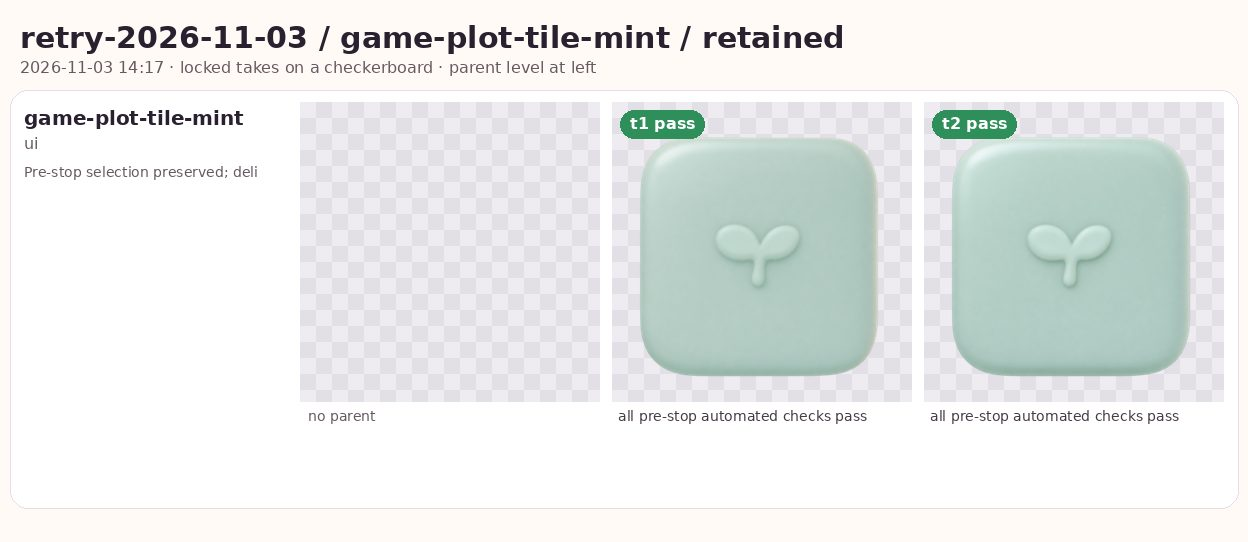
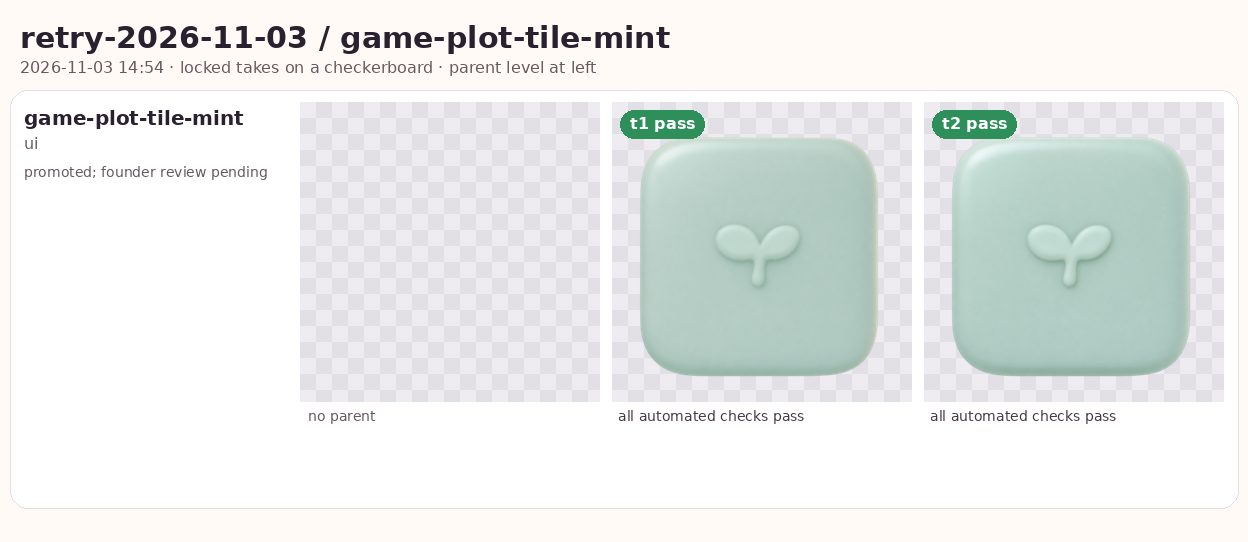
design(art): publish game-plot-tile-mint
Generated-With: OpenAI Codex

diff --git a/design/art/ui/ui-game-plot-tile-mint/provenance.md b/design/art/ui/ui-game-plot-tile-mint/provenance.md
@@ -1,0 +1,50 @@
+# ui__game-plot-tile-mint
+
+- **Approved:** 2026-11-03T14:54:17+00:00 from batch `retry-2026-11-03`, job `game-plot-tile-mint`, take t2
+  of 2 considered.
+- **Generating account:** Founder's uncle's ChatGPT plan, used by the founder with permission
+  (chatgpt-plan).
+- **Tool:** codex-cloud;
+  generated 2026-11-03T13:49:40+00:00.
+- **Post-processing (human-authored, documented per art bible section 13):**
+  canvas fit, alignment to the parent level {"scale": 0.9941, "cx": 507.0, "cy": 956.0, "dx": -5, "dy": -2}, style lock preset `lock-light` (style_lock.json v2).
+- **Files:** `raw.webp` is the take as generated (webp q95), kept so the look can be re-locked; `ui-game-plot-tile-mint.png` is the locked master the app and later edits use.
+- **Review note:** auto-picked by QA; founder review pending. Resume from the saved pre-stop choice t2, with zero image generation. Re-posted all two original PNGs under main9ede62e QA: both pass; t2 remains lowest lock load0.5998 versus0.6082 and its locked RGBA is unchanged from the retained candidate. Matte cool blue-mint glaze remains distinct from sage; tile silhouette, highlight, lip and sprout are preserved. Exactly two original image requests; source files recovered after the historical ARG_MAX callback failure and assigned stable completion-time numbering, not claimed original request ordinal. This fresh preparation adopts no old partial master or journal.
+
+## References
+
+- `design/art/ui/ui-game-plot-tile-sage/ui-game-plot-tile-sage.png`: The image to edit (the approved previous level). Edit it; do not redraw it.
+
+## Prompt (fingerprint f470d536dd3b0cd8)
+
+```text
+REFERENCES (attached, in this order):
+1. The image to edit (the approved previous level). Edit it; do not redraw it.
+
+Change only the glaze color of the tile and its sprout to a cool
+mint, a little bluer than before, in the same finish and the same
+lightness. The shape, highlight, lip and sprout stay.
+
+KEEP: everything not named above stays exactly the same as in the
+attached image: every existing part, its shape, color, position and size,
+the canvas, the camera, the light and the painting style. Do not zoom out
+or reframe: if a new part does not fit, make the new part smaller, never
+the existing ones. Outside the new parts, the result must line up with
+the attached image pixel for pixel.
+
+Output: one image, transparent background PNG, square 1024 x 1024.
+```
+
+## QA at approval
+
+- pass: transparency (source has an alpha channel)
+- pass: canvas (1254x1254 scaled x0.817 into 1024x1024)
+- pass: edit_alignment (the edit rescaled the object x1.006 and moved it; aligned back to the parent)
+- pass: chroma_ceiling (chroma p95 12 (R1 51))
+- pass: value_floor (lightness p5 75 (R1 59))
+- pass: detail_budget (detail at display size 0.5 (R1 5.3))
+- pass: lock_load (the lock moved colors by mean dE 0.6)
+- pass: palette_drift (mean dE 1.3, p95 2.5, off-palette 0.0%)
+- pass: edit_silhouette (99% of the parent's shape kept)
+- pass: edit_structure (light structure matches the parent (r 0.96))
+- pass: edit_lightness (mean lightness moved by 3.8 L (the same lightness was asked))
